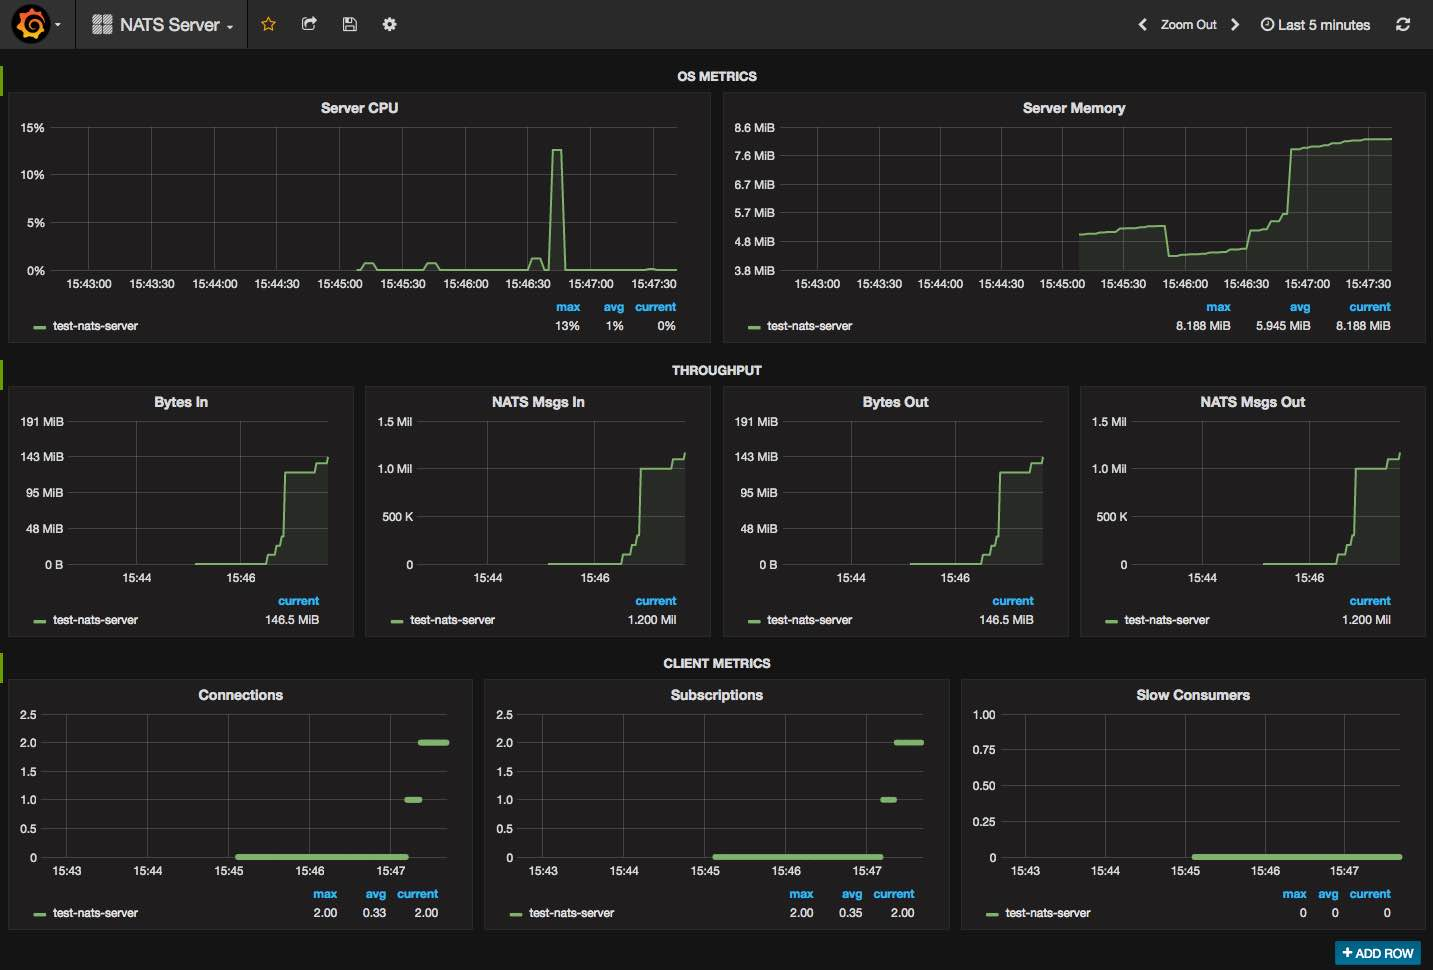
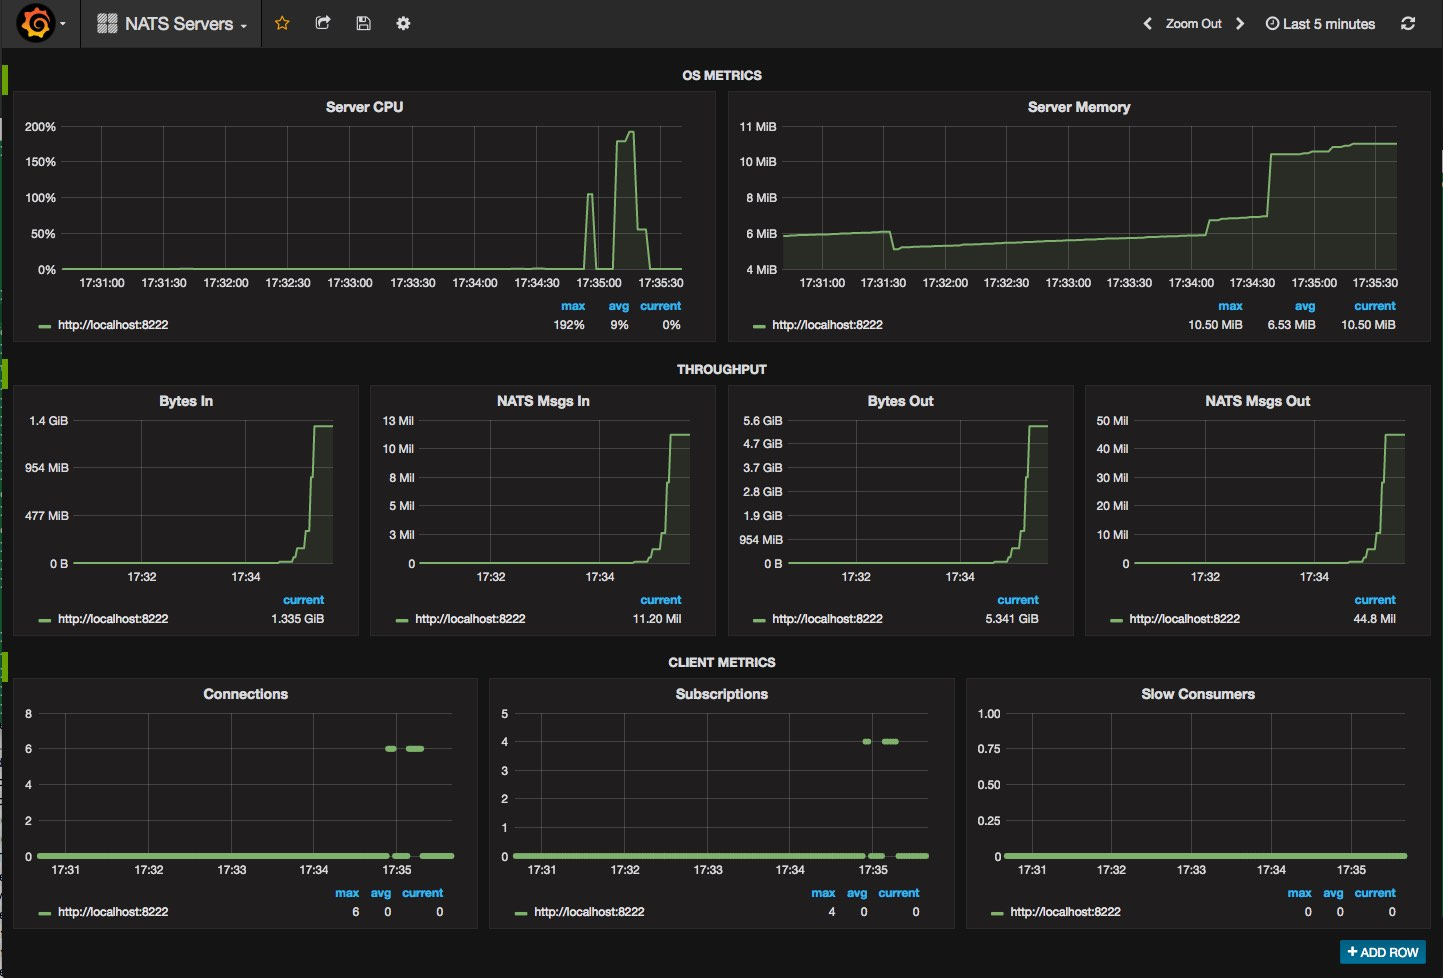
Remove references to tags

diff --git a/README.md b/README.md
@@ -62,14 +62,10 @@ Usage of prometheus-nats-exporter:
 ```
 
 ###  The URL parameter
-The url parameter is a standard url, with an optional tag prefix delimited by a comma.  Both `http` and `https` (when TLS is configured) is supported.
-
-`<tag>,<url>`
-
-This adds a tag identified as `server-id` into the prometheus metrics allowing you to identify the server by a convenient name. 
+The url parameter is a standard url.  Both `http` and `https` (when TLS is configured) is supported.
 
 e.g.
-`production-denver-1,http://denver1.foobar.com:8222`
+`http://denver1.foobar.com:8222`
 
 # Monitoring
 
@@ -82,13 +78,13 @@ The returned data looks like this:
 ```text
 # HELP gnatsd_varz_in_bytes in_bytes
 # TYPE gnatsd_varz_in_bytes gauge
-gnatsd_varz_in_bytes{server_id="production-denver-1"} 0
+gnatsd_varz_in_bytes{server_id="http://localhost:8222"} 0
 # HELP gnatsd_varz_in_msgs in_msgs
 # TYPE gnatsd_varz_in_msgs gauge
-gnatsd_varz_in_msgs{server_id="production-denver-1"} 0
+gnatsd_varz_in_msgs{server_id="http://localhost:8222"} 0
 # HELP gnatsd_varz_max_connections max_connections
 # TYPE gnatsd_varz_max_connections gauge
-gnatsd_varz_max_connections{server_id="production-denver-1"} 65536
+gnatsd_varz_max_connections{server_id="http://localhost:8222"} 65536
 ```
 
 # The NATS Prometheus Exporter API
@@ -112,7 +108,6 @@ In just a few lines of code, configure and launch an instance of the exporter.
 	opts.ListenPort = 8888
 	opts.GetVarz = true
 	opts.NATSServerURL = "http://localhost:8222"
-	opts.NATSServerTag = "myserver"
 
 	// create an exporter instance, ready to be launched.
 	exp := exporter.NewExporter(opts)

diff --git a/walkthrough/README.md b/walkthrough/README.md
@@ -34,12 +34,9 @@ Be sure to include the a monitoring port:
 gnatsd -m 8222
 ```
 
-Next, launch the NATS prometheus exporter.  Here we specified an optional tag
-of `test-nats-server`, and the monitor port we specified when launching the 
-NATS server.  If a NATS server is not running, the exporter will retry to connect
-to the NATS server indefinitely.
+Next, launch the NATS prometheus exporter.  Here we configure the same monitor port we specified when launching the NATS server.  If a NATS server is not running, the exporter will retry to connect to the NATS server indefinitely.
 ```sh
-prometheus-nats-exporter -varz test-nats-server,http://localhost:8222
+prometheus-nats-exporter -varz http://localhost:8222
 ```
 
 You should see something like this:
@@ -82,7 +79,7 @@ Look for a log line like this to find the Grafana URL:
 INFO[05-02|10:36:04] Server Listening logger=server address=0.0.0.0:3000 protocol=http subUrl=
 ```
 
-Connect to Grafana, using the correct host and port.
+Connect to Grafana, using the correct host and port.  The default Grafana user is `admin` and the default password is `admin`.
 
 Add a Prometheus data source with the following parameters:
 * Name:  NATS-Prometheus
